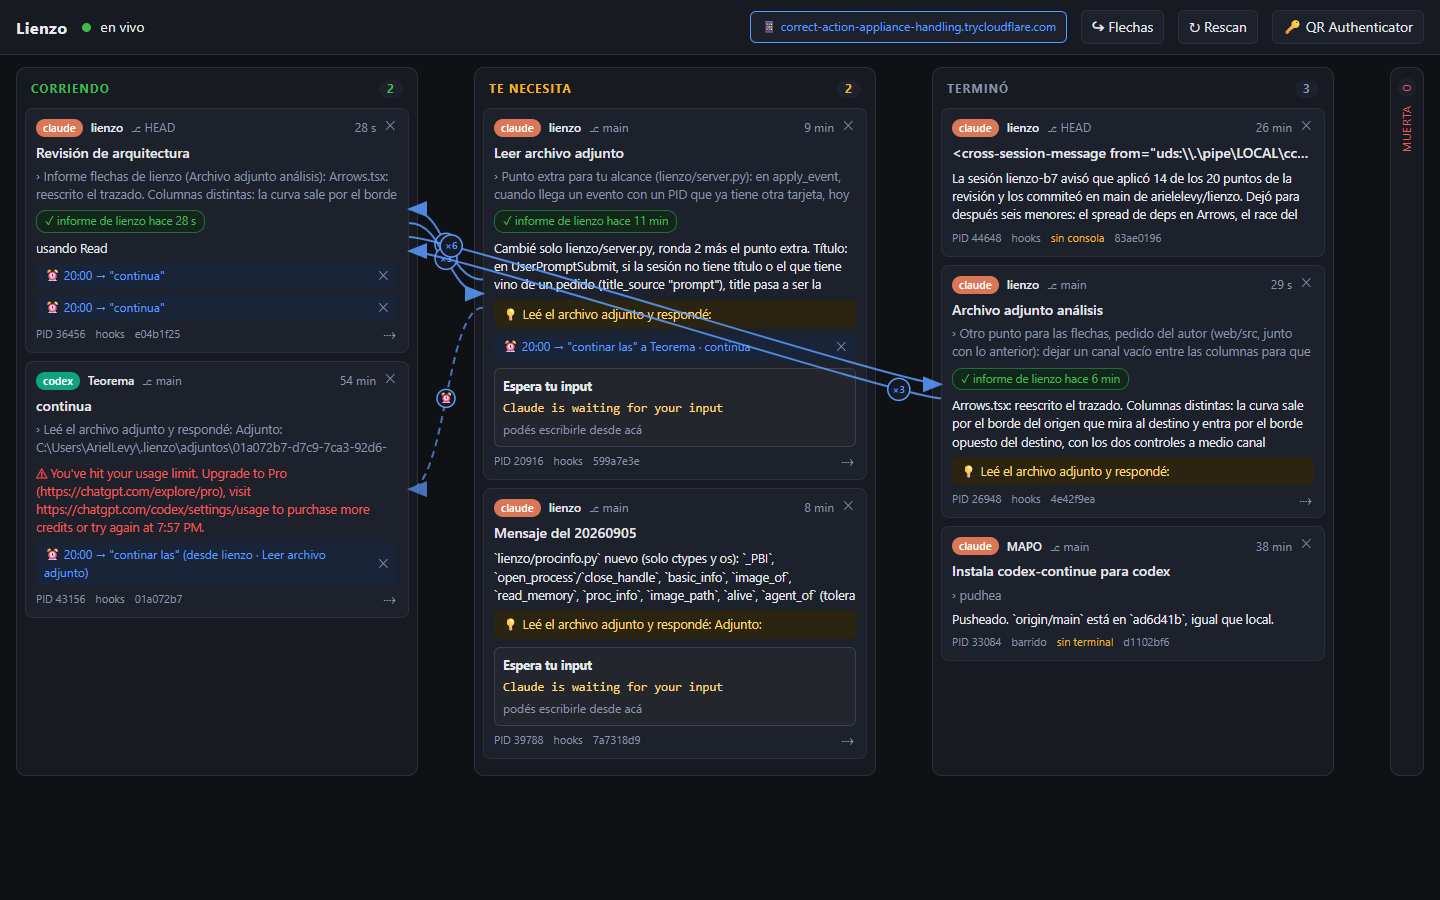
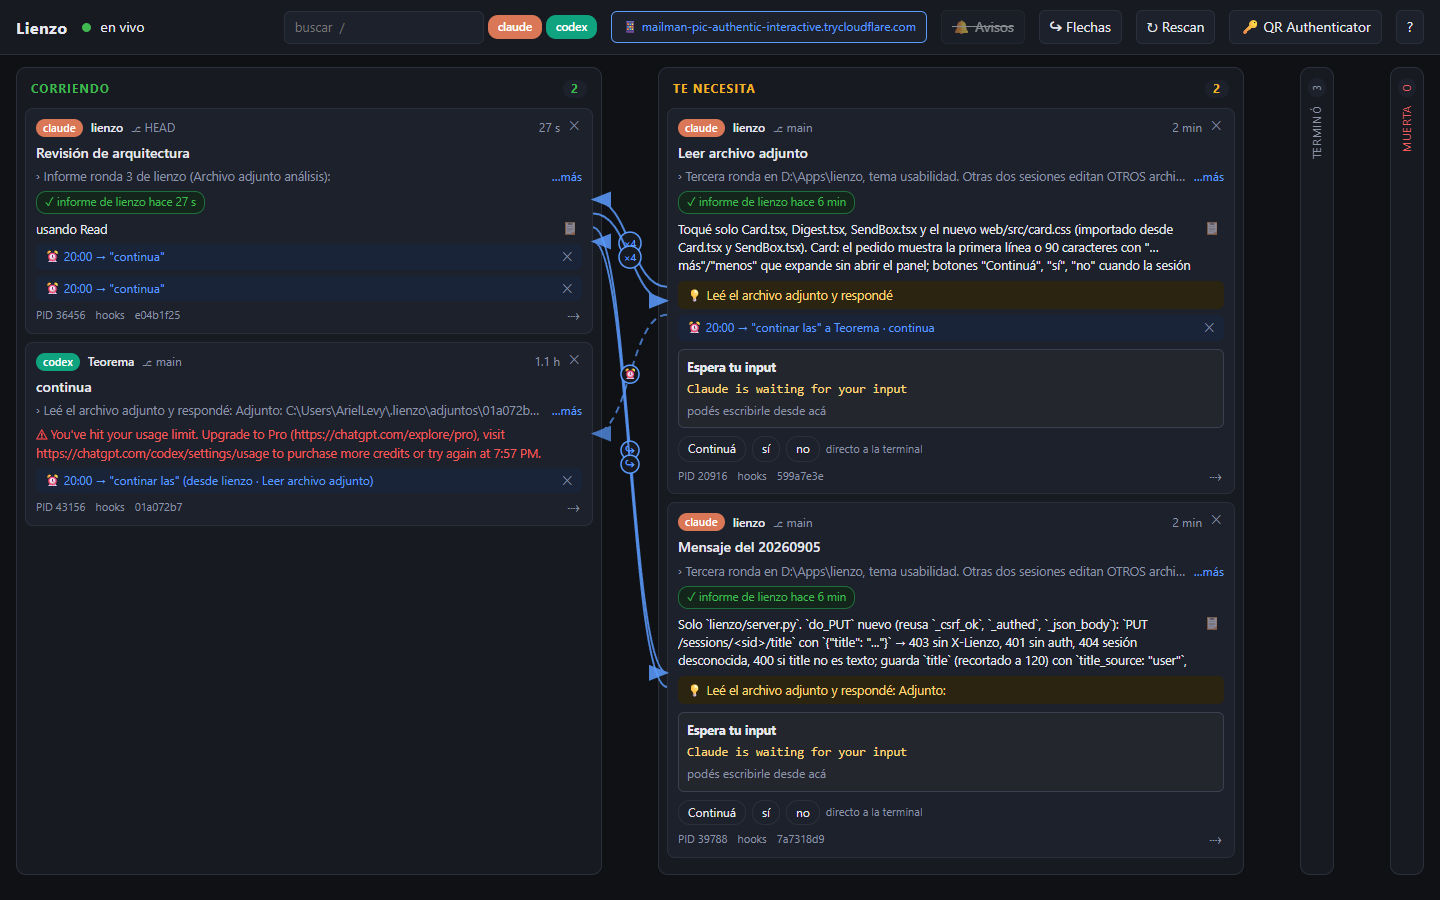
Front ronda 3 (por otra sesion via lienzo): Termino colapsada por defecto y columnas colapsables, avisos del navegador, buscador y chips por agente, ayuda de atajos
Claude-Session: https://claude.ai/code/session_01U8JYzvTFJ2Fhdbfi6x9HM2

Changed region(s): [[0.0, 0.0933, 0.9062, 0.9333], [0.3438, 0.0, 0.9688, 0.0622], [0.875, 0.5911, 0.9062, 0.6222]]

diff --git a/web/src/App.tsx b/web/src/App.tsx
@@ -1,6 +1,6 @@
 import { useCallback, useEffect, useRef, useState } from "react";
-import { api, type AuthInfo } from "./api";
-import { Board } from "./components/Board";
+import { api, detail, type AuthInfo } from "./api";
+import { Board, type Agent } from "./components/Board";
 import { Enroll } from "./components/Enroll";
 import { Forward } from "./components/Forward";
 import { Login } from "./components/Login";
@@ -89,6 +89,114 @@ function Dashboard({ authInfo, refreshAuth, onSetup }: { authInfo: AuthInfo; ref
   const selectedRef = useRef<string | null>(null);
   selectedRef.current = selected;
 
+  // filtro visual del header: texto + agentes. "/" enfoca la caja, Esc la limpia.
+  const [query, setQuery] = useState("");
+  const [agents, setAgents] = useState<Record<Agent, boolean>>({ claude: true, codex: true });
+  const searchRef = useRef<HTMLInputElement>(null);
+  const [showHelp, setShowHelp] = useState(false);
+  useEffect(() => {
+    const onKey = (e: KeyboardEvent) => {
+      const t = e.target as HTMLElement | null;
+      const typing = !!t && (t.tagName === "INPUT" || t.tagName === "TEXTAREA" || t.tagName === "SELECT" || t.isContentEditable);
+      if (e.key === "/" && !typing && !e.ctrlKey && !e.metaKey && !e.altKey) {
+        e.preventDefault();
+        searchRef.current?.focus();
+        searchRef.current?.select();
+      } else if (e.key === "?" && !typing && !e.ctrlKey && !e.metaKey && !e.altKey) {
+        e.preventDefault();
+        setShowHelp((v) => !v);
+      }
+    };
+    document.addEventListener("keydown", onKey);
+    return () => document.removeEventListener("keydown", onKey);
+  }, []);
+
+  // notificaciones del navegador: pedidos de permiso nuevos (pending) y tarjetas que pasan a
+  // "te necesita" por permiso. Se detectan por transicion contra el estado anterior; el primer
+  // snapshot solo inicializa, para no disparar una rafaga al abrir la pestana.
+  const [notify, setNotify] = useState(() => {
+    try {
+      return localStorage.getItem("lienzo.notify") === "1" && typeof Notification !== "undefined" && Notification.permission === "granted";
+    } catch {
+      return false;
+    }
+  });
+  const toggleNotify = useCallback(async () => {
+    if (typeof Notification === "undefined") {
+      toast("Este navegador no tiene notificaciones", true);
+      return;
+    }
+    if (notify) {
+      setNotify(false);
+      try {
+        localStorage.setItem("lienzo.notify", "0");
+      } catch {
+        /* sin storage, no importa */
+      }
+      return;
+    }
+    const perm = Notification.permission === "granted" ? "granted" : await Notification.requestPermission();
+    if (perm !== "granted") {
+      toast("El navegador no dio permiso para notificar", true);
+      return;
+    }
+    setNotify(true);
+    try {
+      localStorage.setItem("lienzo.notify", "1");
+    } catch {
+      /* sin storage, no importa */
+    }
+    toast("Notificaciones activadas");
+  }, [notify, toast]);
+  const notifyRef = useRef(notify);
+  notifyRef.current = notify;
+  const seenPendingRef = useRef<Set<string> | null>(null);
+  const permNeedRef = useRef<Set<string> | null>(null);
+  // recien despues del primer render con datos se empieza a comparar: lo que ya estaba al abrir
+  // la pestana no es novedad
+  const armedRef = useRef(false);
+  const hasData = Object.keys(sessions).length > 0 || Object.keys(pending).length > 0;
+  const fire = useCallback((sid: string, title: string, body: string) => {
+    if (!notifyRef.current || typeof Notification === "undefined" || Notification.permission !== "granted") return;
+    try {
+      const n = new Notification(title, { body, tag: `lienzo-${sid}` });
+      n.onclick = () => {
+        window.focus();
+        setSelected(sid);
+        n.close();
+      };
+    } catch {
+      /* sin notificaciones (contexto inseguro, etc.) */
+    }
+  }, []);
+  useEffect(() => {
+    const ids = new Set(Object.keys(pending));
+    const prev = seenPendingRef.current;
+    seenPendingRef.current = ids;
+    if (!prev || !armedRef.current) return;
+    for (const p of Object.values(pending)) {
+      if (prev.has(p.request_id)) continue;
+      const s = sessions[p.session_id];
+      const who = s?.repo ?? p.agent;
+      fire(p.session_id, `${who} pide permiso: ${p.tool_name}`, detail(p.tool_input).slice(0, 200));
+    }
+  }, [pending, sessions, fire]);
+  useEffect(() => {
+    const now = new Set<string>();
+    for (const s of Object.values(sessions)) if (s.state === "te_necesita" && s.needs?.kind === "permission") now.add(s.session_id);
+    const prev = permNeedRef.current;
+    permNeedRef.current = now;
+    const armed = armedRef.current;
+    if (hasData) armedRef.current = true; // este render ya tiene datos: el proximo compara
+    if (!prev || !armed) return;
+    for (const sid of now) {
+      if (prev.has(sid)) continue;
+      const s = sessions[sid];
+      if (!s || s.pending_id) continue; // el pending ya avisa con mas detalle
+      fire(sid, `${s.repo} pide permiso: ${s.needs?.tool ?? ""}`.trim(), (s.needs?.detail ?? "").slice(0, 200));
+    }
+  }, [sessions, hasData, fire]);
+
   const lastMsgRef = useRef(0);
   const [polling, setPolling] = useState(false);
   useEffect(() => {
@@ -157,16 +265,17 @@ function Dashboard({ authInfo, refreshAuth, onSetup }: { authInfo: AuthInfo; ref
     };
   }, [refreshAuth]);
 
-  // Escape cierra lo que este abierto: dialogo de conexion, o panel
+  // Escape cierra lo que este abierto: ayuda, dialogo de conexion, o panel
   useEffect(() => {
     const onKey = (e: KeyboardEvent) => {
       if (e.key !== "Escape") return;
-      if (connect) setConnect(null);
+      if (showHelp) setShowHelp(false);
+      else if (connect) setConnect(null);
       else if (selectedRef.current) setSelected(null);
     };
     document.addEventListener("keydown", onKey);
     return () => document.removeEventListener("keydown", onKey);
-  }, [connect]);
+  }, [connect, showHelp]);
 
   // click fuera del panel (y fuera de una tarjeta) lo cierra
   useEffect(() => {
@@ -238,6 +347,34 @@ function Dashboard({ authInfo, refreshAuth, onSetup }: { authInfo: AuthInfo; ref
           <span className={`dot ${connected ? "on" : ""}`} /> {!connected ? "reconectando" : polling ? "sondeo 4 s" : "en vivo"}
         </span>
         <span className="sp" />
+        <div className="search" role="search">
+          <input
+            ref={searchRef}
+            type="search"
+            value={query}
+            placeholder="buscar  /"
+            aria-label="filtrar tarjetas por repo, título o último pedido"
+            onChange={(e) => setQuery(e.target.value)}
+            onKeyDown={(e) => {
+              if (e.key === "Escape") {
+                e.stopPropagation();
+                setQuery("");
+                (e.target as HTMLInputElement).blur();
+              }
+            }}
+          />
+          {(["claude", "codex"] as Agent[]).map((a) => (
+            <button
+              key={a}
+              className={`chip ${a} ${agents[a] ? "on" : ""}`}
+              aria-pressed={agents[a]}
+              title={agents[a] ? `ocultar sesiones de ${a}` : `mostrar sesiones de ${a}`}
+              onClick={() => setAgents((prev) => ({ ...prev, [a]: !prev[a] }))}
+            >
+              {a}
+            </button>
+          ))}
+        </div>
         {authInfo.remote_url && authInfo.local && (
           <button className="url" title="QR para abrir en el celular" onClick={() => setShowQr(true)}>
             📱 <span className="txt">{authInfo.remote_url.replace("https://", "")}</span>
@@ -246,6 +383,9 @@ function Dashboard({ authInfo, refreshAuth, onSetup }: { authInfo: AuthInfo; ref
         <label className="dim small think" title="mostrar el pensamiento del agente en la conversación">
           <input type="checkbox" checked={showThinking} onChange={(e) => setShowThinking(e.target.checked)} /> 💭<span className="txt"> pensamiento</span>
         </label>
+        <button onClick={toggleNotify} className={notify ? "" : "off"} title={notify ? "dejar de avisar con notificaciones del navegador" : "avisar con una notificación del navegador cuando una sesión pide permiso"} aria-pressed={notify}>
+          🔔<span className="txt"> Avisos</span>
+        </button>
         <button onClick={toggleArrows} className={showArrows ? "" : "off"} title={showArrows ? "ocultar las flechas entre tarjetas" : "mostrar las flechas entre tarjetas"} aria-pressed={showArrows}>
           ↪<span className="txt"> Flechas</span>
         </button>
@@ -259,7 +399,35 @@ function Dashboard({ authInfo, refreshAuth, onSetup }: { authInfo: AuthInfo; ref
         {authInfo.configured && !authInfo.local && (
           <button onClick={() => api.post("/logout", {}).then(refreshAuth).catch((e) => toast((e as Error).message, true))} title="cerrar sesión en este dispositivo">Salir</button>
         )}
+        <button onClick={() => setShowHelp(true)} title="atajos de teclado" aria-label="atajos de teclado">?</button>
       </header>
+      {showHelp && (
+        <div className="gate" onMouseDown={(e) => e.target === e.currentTarget && setShowHelp(false)}>
+          <div className="gate-box help" role="dialog" aria-label="atajos">
+            <h1>Atajos</h1>
+            <dl>
+              <dt><kbd>Esc</kbd></dt>
+              <dd>cierra el panel, el diálogo de conectar o esta ayuda; en la búsqueda, la limpia</dd>
+              <dt><kbd>Tab</kbd></dt>
+              <dd>en la caja de envío, acepta la sugerencia gris leída de la terminal</dd>
+              <dt><kbd>/</kbd></dt>
+              <dd>enfoca la búsqueda (repo, título, último pedido)</dd>
+              <dt><kbd>?</kbd></dt>
+              <dd>muestra u oculta esta ayuda</dd>
+              <dt><kbd>Enter</kbd></dt>
+              <dd>sobre una tarjeta enfocada, abre su panel</dd>
+              <dt>arrastrar</dt>
+              <dd>una tarjeta sobre otra abre el diálogo de conectar con ese destino</dd>
+              <dt>click</dt>
+              <dd>en el título de una columna la colapsa a una tira; en la tira, la expande</dd>
+            </dl>
+            <div className="row">
+              <span className="sp" />
+              <button onClick={() => setShowHelp(false)}>Cerrar</button>
+            </div>
+          </div>
+        </div>
+      )}
       {showQr && authInfo.remote_url && <UrlQr url={authInfo.remote_url} onClose={() => setShowQr(false)} />}
       {showTotp && <TotpQr onClose={() => setShowTotp(false)} />}
       <Board
@@ -277,6 +445,8 @@ function Dashboard({ authInfo, refreshAuth, onSetup }: { authInfo: AuthInfo; ref
         onDeleteRule={deleteRule}
         onConnect={connectCards}
         showArrows={showArrows}
+        query={query}
+        agents={agents}
       />
       {connect && sessions[connect.from] && (
         <div className="gate" onMouseDown={(e) => e.target === e.currentTarget && setConnect(null)}>

diff --git a/web/src/components/Board.tsx b/web/src/components/Board.tsx
@@ -26,7 +26,25 @@ interface Props {
   onConnect: (from: string, to: string) => void;
   /** boton del header: con muchas flechas conviene poder apagarlas */
   showArrows: boolean;
+  /** filtro del header: texto libre (repo, titulo, ultimo pedido) y agentes visibles */
+  query: string;
+  agents: Record<Session["agent"], boolean>;
 }
+
+export type Agent = Session["agent"];
+
+const COLLAPSE_KEY = "lienzo.collapsed";
+type Collapsed = Partial<Record<State, boolean>>;
+function loadCollapsed(): Collapsed {
+  try {
+    const raw = localStorage.getItem(COLLAPSE_KEY);
+    return raw ? (JSON.parse(raw) as Collapsed) : {};
+  } catch {
+    return {};
+  }
+}
+
+const norm = (s: string) => s.toLowerCase().normalize("NFD").replace(/[\u0300-\u036f]/g, "");
 
 const canReceive = (s: Session | undefined) => !!s && s.alive && !!s.pid && !s.orphan && !s.no_console;
 
@@ -39,7 +57,7 @@ interface Drag {
   over: string | null;
 }
 
-export function Board({ sessions, pending, selected, filter, onFilter, onSelect, onDecide, onDrop, links, rules, onDeleteLink, onDeleteRule, onConnect, showArrows }: Props) {
+export function Board({ sessions, pending, selected, filter, onFilter, onSelect, onDecide, onDrop, links, rules, onDeleteLink, onDeleteRule, onConnect, showArrows, query, agents }: Props) {
   const boardRef = useRef<HTMLDivElement | null>(null);
   const [drag, setDrag] = useState<Drag | null>(null);
   // tarjeta bajo el mouse: Arrows resalta sus flechas y atenua las demas
@@ -74,17 +92,40 @@ export function Board({ sessions, pending, selected, filter, onFilter, onSelect,
     // eslint-disable-next-line react-hooks/exhaustive-deps
   }, []);
 
-  // una pasada por render: las sesiones agrupadas por estado y ordenadas por repo + inicio
+  // una pasada por render: las sesiones que pasan el filtro del header, agrupadas por estado y
+  // ordenadas por repo + inicio. El filtro es solo visual: el server no se entera.
   const byState = useMemo(() => {
+    const q = norm(query.trim());
     const g: Record<State, Session[]> = { corriendo: [], te_necesita: [], termino: [], muerta: [] };
-    for (const s of Object.values(sessions)) (g[s.state] ??= []).push(s);
+    for (const s of Object.values(sessions)) {
+      if (!agents[s.agent]) continue;
+      if (q && !norm(`${s.repo} ${s.title ?? ""} ${s.last_prompt ?? ""}`).includes(q)) continue;
+      (g[s.state] ??= []).push(s);
+    }
     for (const k of STATES.map(([k]) => k)) g[k].sort((a, b) => (a.repo + a.started).localeCompare(b.repo + b.started));
     return g;
-  }, [sessions]);
+  }, [sessions, query, agents]);
+
+  // columnas colapsadas a la tira vertical. Sin eleccion guardada: "Terminó" arranca colapsada
+  // (pedido del autor) y las vacias tambien; el click en la tira expande, el click en el titulo
+  // colapsa, y la eleccion queda en localStorage.
+  const [collapsed, setCollapsed] = useState<Collapsed>(loadCollapsed);
+  const setCol = (k: State, v: boolean) => {
+    setCollapsed((prev) => {
+      const next = { ...prev, [k]: v };
+      try {
+        localStorage.setItem(COLLAPSE_KEY, JSON.stringify(next));
+      } catch {
+        /* sin storage, no importa */
+      }
+      return next;
+    });
+  };
+  const isCollapsed = (k: State, n: number) => collapsed[k] ?? (k === "termino" || n === 0);
 
   // las flechas se recalculan cuando algo pudo mover una tarjeta
   const versionRef = useRef(0);
-  const arrowsVersion = useMemo(() => ++versionRef.current, [sessions, filter, selected]);
+  const arrowsVersion = useMemo(() => ++versionRef.current, [sessions, filter, selected, collapsed, query, agents]);
 
   // arrastre de una tarjeta a otra: linea provisoria que sigue al mouse, al soltar sobre otra
   // tarjeta se abre el reenvio con ese destino
@@ -165,23 +206,31 @@ export function Board({ sessions, pending, selected, filter, onFilter, onSelect,
         )}
         {STATES.map(([k, label]) => {
           const list = byState[k];
-          const collapsed = list.length === 0;
+          const col = isCollapsed(k, list.length);
           return (
-            <div key={k} className={`col ${k} ${collapsed ? "collapsed" : ""} ${filter === k ? "show" : ""}`}>
-              {collapsed ? (
+            <div key={k} className={`col ${k} ${col ? "collapsed" : ""} ${filter === k ? "show" : ""}`}>
+              {col ? (
                 <>
-                  <div className="vlabel">
+                  <div
+                    className="vlabel"
+                    role="button"
+                    tabIndex={0}
+                    title={`${label}: ${list.length} · click para expandir`}
+                    onClick={() => setCol(k, false)}
+                    onKeyDown={(e) => e.key === "Enter" && setCol(k, false)}
+                  >
                     <span>{label}</span>
-                    <span className="n">0</span>
+                    <span className="n">{list.length}</span>
                   </div>
-                  <div className="empty">nada acá</div>
+                  <div className="empty">{list.length ? `${list.length} ocultas` : "nada acá"}</div>
                 </>
               ) : (
                 <>
-                  <h2>
+                  <h2 title="click para colapsar la columna" onClick={() => setCol(k, true)}>
                     <span>{label}</span>
                     <span className="n">{list.length}</span>
                   </h2>
+                  {list.length === 0 && <div className="empty">nada acá</div>}
                   {list.map((s) => (
                     <div key={s.session_id} className={drag?.over === s.session_id ? "droptarget" : ""}>
                       <Card

diff --git a/web/src/styles.css b/web/src/styles.css
@@ -40,6 +40,11 @@ button:disabled { opacity: .45; cursor: not-allowed; }
 header button.off { opacity: .55; text-decoration: line-through; }
 .col { flex: 1 1 0; min-width: 0; background: var(--panel); border: 1px solid var(--line); border-radius: 10px; min-height: 120px; padding: 8px; }
 .col.collapsed { flex: 0 0 34px; padding: 0; display: flex; align-items: flex-start; justify-content: center; }
+.col.collapsed .vlabel { cursor: pointer; border-radius: 8px; }
+.col.collapsed .vlabel:hover { background: var(--card); color: var(--fg); }
+.col.collapsed .vlabel:focus-visible { outline: 2px solid var(--acc); }
+.col h2 { cursor: pointer; }
+.col h2:hover .n { background: var(--acc); color: #fff; }
 .col.collapsed .empty { display: none; }
 .col.collapsed.show .empty { display: block; }
 .col .vlabel { writing-mode: vertical-rl; transform: rotate(180deg); font-size: 11px; text-transform: uppercase; letter-spacing: 1px; color: var(--dim); padding: 10px 0; display: flex; gap: 8px; align-items: center; }
@@ -173,6 +178,20 @@ header button.off { opacity: .55; text-decoration: line-through; }
 @media (max-width: 700px) { .gate-box .two { grid-template-columns: 1fr; } }
 a.btn { display: block; text-align: center; text-decoration: none; background: var(--acc); color: #fff; border-radius: 6px; padding: 10px; font-weight: 600; }
 header button.url { font-size: 12px; color: var(--acc); border-color: var(--acc); }
+/* busqueda + chips de agente en el header: filtran las tarjetas visibles, nada mas */
+header .search { display: flex; align-items: center; gap: 4px; }
+header .search input { background: var(--card); color: var(--fg); border: 1px solid var(--line); border-radius: 6px; padding: 6px 10px; font: inherit; font-size: 13px; width: 200px; }
+header .search input:focus { outline: none; border-color: var(--acc); }
+header .search .chip { padding: 3px 9px; font-size: 11.5px; font-weight: 600; border-radius: 10px; opacity: .45; border-color: transparent; }
+header .search .chip.on { opacity: 1; color: #fff; }
+header .search .chip.claude.on { background: var(--claude); }
+header .search .chip.codex.on { background: var(--codex); }
+header .search .chip:not(.on) { text-decoration: line-through; }
+/* overlay de atajos */
+.gate-box.help dl { display: grid; grid-template-columns: auto 1fr; gap: 8px 14px; margin: 0; font-size: 13px; }
+.gate-box.help dt { color: var(--dim); text-align: right; white-space: nowrap; }
+.gate-box.help dd { margin: 0; }
+.gate-box.help kbd { font: inherit; font-size: 12px; background: var(--card); border: 1px solid var(--line); border-bottom-width: 2px; border-radius: 4px; padding: 0 6px; color: var(--fg); }
 
 .toasts { position: fixed; bottom: 16px; left: 16px; z-index: 20; display: flex; flex-direction: column; gap: 6px; }
 .toast { background: #222838; border: 1px solid var(--line); border-radius: 8px; padding: 10px 14px; max-width: 60vw; }
@@ -199,6 +218,8 @@ header button.url { font-size: 12px; color: var(--acc); border-color: var(--acc)
   header { gap: 8px; padding: 8px 10px; }
   header h1 { font-size: 15px; }
   header .txt { display: none; }
+  header .search input { width: 110px; }
+  header .search .chip { display: none; }
   header button { padding: 6px 9px; }
   .filters { padding: 8px 10px 0; gap: 6px; }
   .filters button { flex: 1 1 auto; padding: 8px 6px; font-size: 13px; }
